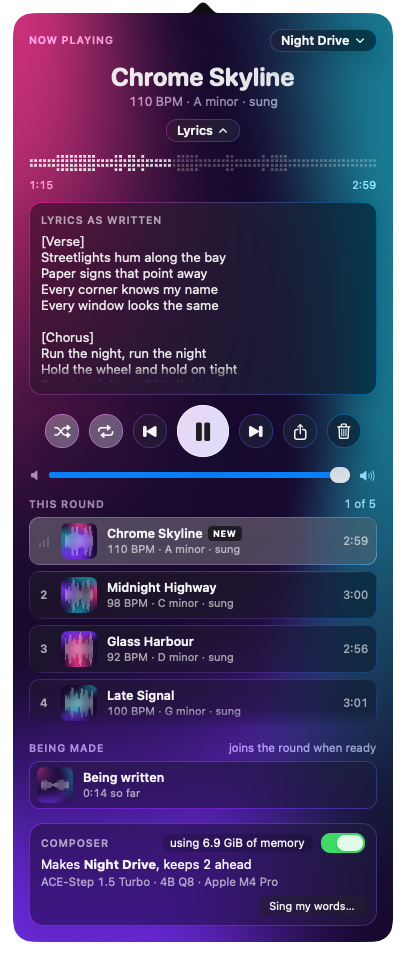
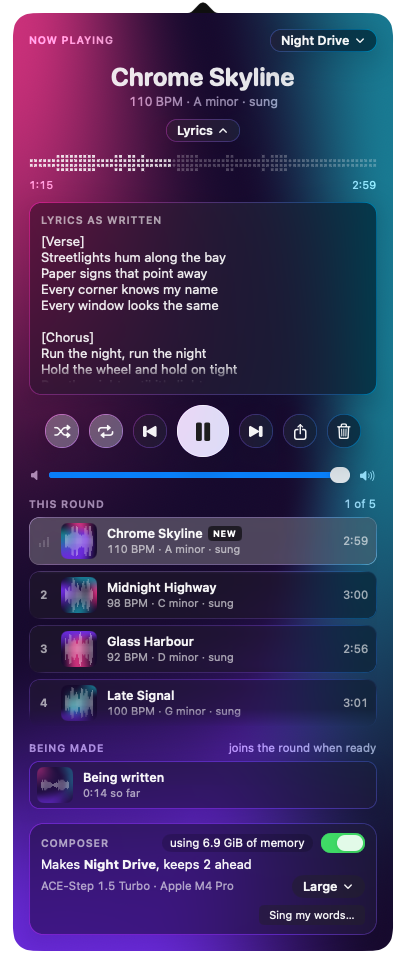
docs: screenshots with the two models
lyrics retaken from the demo with the picture held still: the composer
bar's model line now ends in the Large capsule; its alt text says so.
models is new: the Music models card with Large on disk and ticked and
Small to download, added to the README's grid.

Changed region(s): [[0.0591, 0.0304, 0.9458, 0.9717]]

diff --git a/README.md b/README.md
@@ -62,13 +62,16 @@ from Omarchy.
 <table>
   <tr>
     <td><img src="docs/screenshots/composing.png" width="250" alt="Nothing playing yet in Synthwave: the hero shows a wave of dots that moves while the first tune is written, the round controls with the volume slider under them, This round has nothing in it yet, and a separate Being made list shows the tune being written and one not started."></td>
-    <td><img src="docs/screenshots/lyrics.png" width="250" alt="A sung tune playing, with tempo, key and the word sung under its name; the wave has shrunk to a thin strip and the words show in a scrolling box headed Lyrics as written. Under the round controls sits the volume slider; below it, This round reads 1 of 5: the playing tune highlighted and tagged NEW at the top of the list, and tunes 2 to 4 under it, kept tunes with no NEW tag, fading at the edge."></td>
+    <td><img src="docs/screenshots/lyrics.png" width="250" alt="A sung tune playing, with tempo, key and the word sung under its name; the wave has shrunk to a thin strip and the words show in a scrolling box headed Lyrics as written. Under the round controls sits the volume slider; below it, This round reads 1 of 5: the playing tune highlighted and tagged NEW at the top of the list, and tunes 2 to 4 under it, kept tunes with no NEW tag, fading at the edge. Under Being made, the composer bar's model line ends in a capsule naming the chosen model, Large."></td>
     <td><img src="docs/screenshots/genres.png" width="250" alt="The genre chooser: nine genres as tiles in their own colours, each with its kept count or what is playing, and a dashed tile to add a new genre."></td>
   </tr>
   <tr>
     <td><img src="docs/screenshots/own-words.png" width="250" alt="The sheet for a tune with your own words: buttons that insert verse, chorus, bridge and instrumental break marks, a text box with the words, a count of sung lines and characters, a suggested name, and Compose."></td>
     <td><img src="docs/screenshots/editor.png" width="250" alt="Editing a sung genre in grouped rows, its name selected for typing: prompt, variations, tempo range, the Singing switch with its explanation, four colour wells, and the buttons to delete, cancel or save."></td>
     <td><img src="docs/screenshots/playing-light.png" width="250" alt="The playing state in light appearance: the same layout, volume slider under the round controls included, and the same list with only the playing tune 5 tagged NEW, on a pale wash of the genre's colours with dark text."></td>
+  </tr>
+  <tr>
+    <td><img src="docs/screenshots/models.png" width="250" alt="The Music models card: Small, 0.6B Q8, 0.66 GiB to download and about 4 GiB of memory, with a Download button; Large, 4B Q8, ticked as the one new tunes are made with, 4.15 GiB on this Mac and about 8 GiB of memory, with Remove; under them, a note that the models share 3.42 GiB of other files."></td>
   </tr>
 </table>
 
